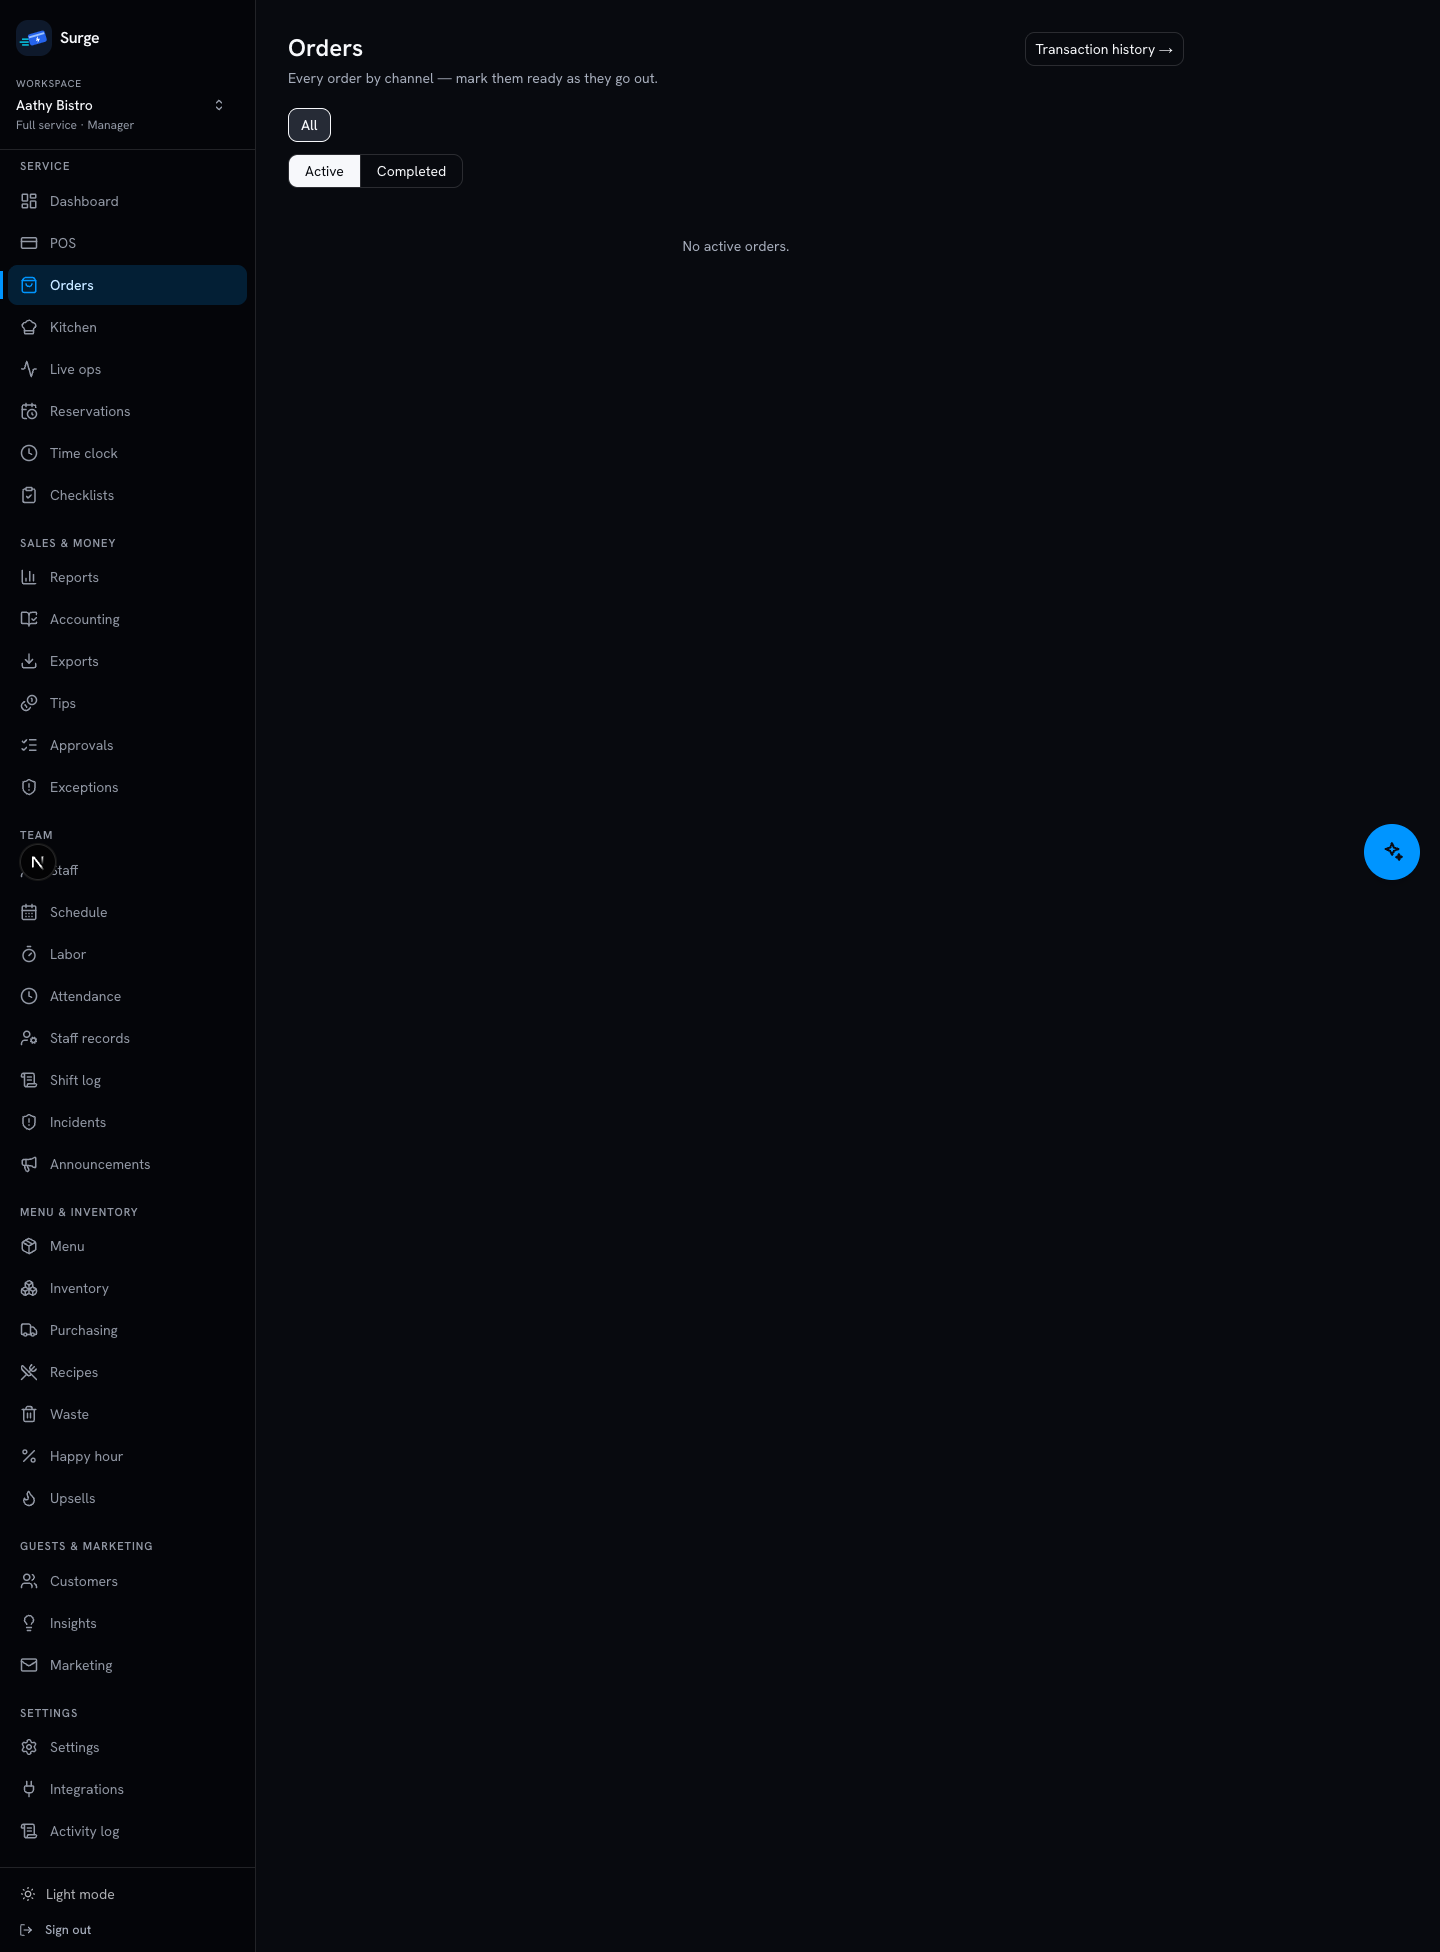
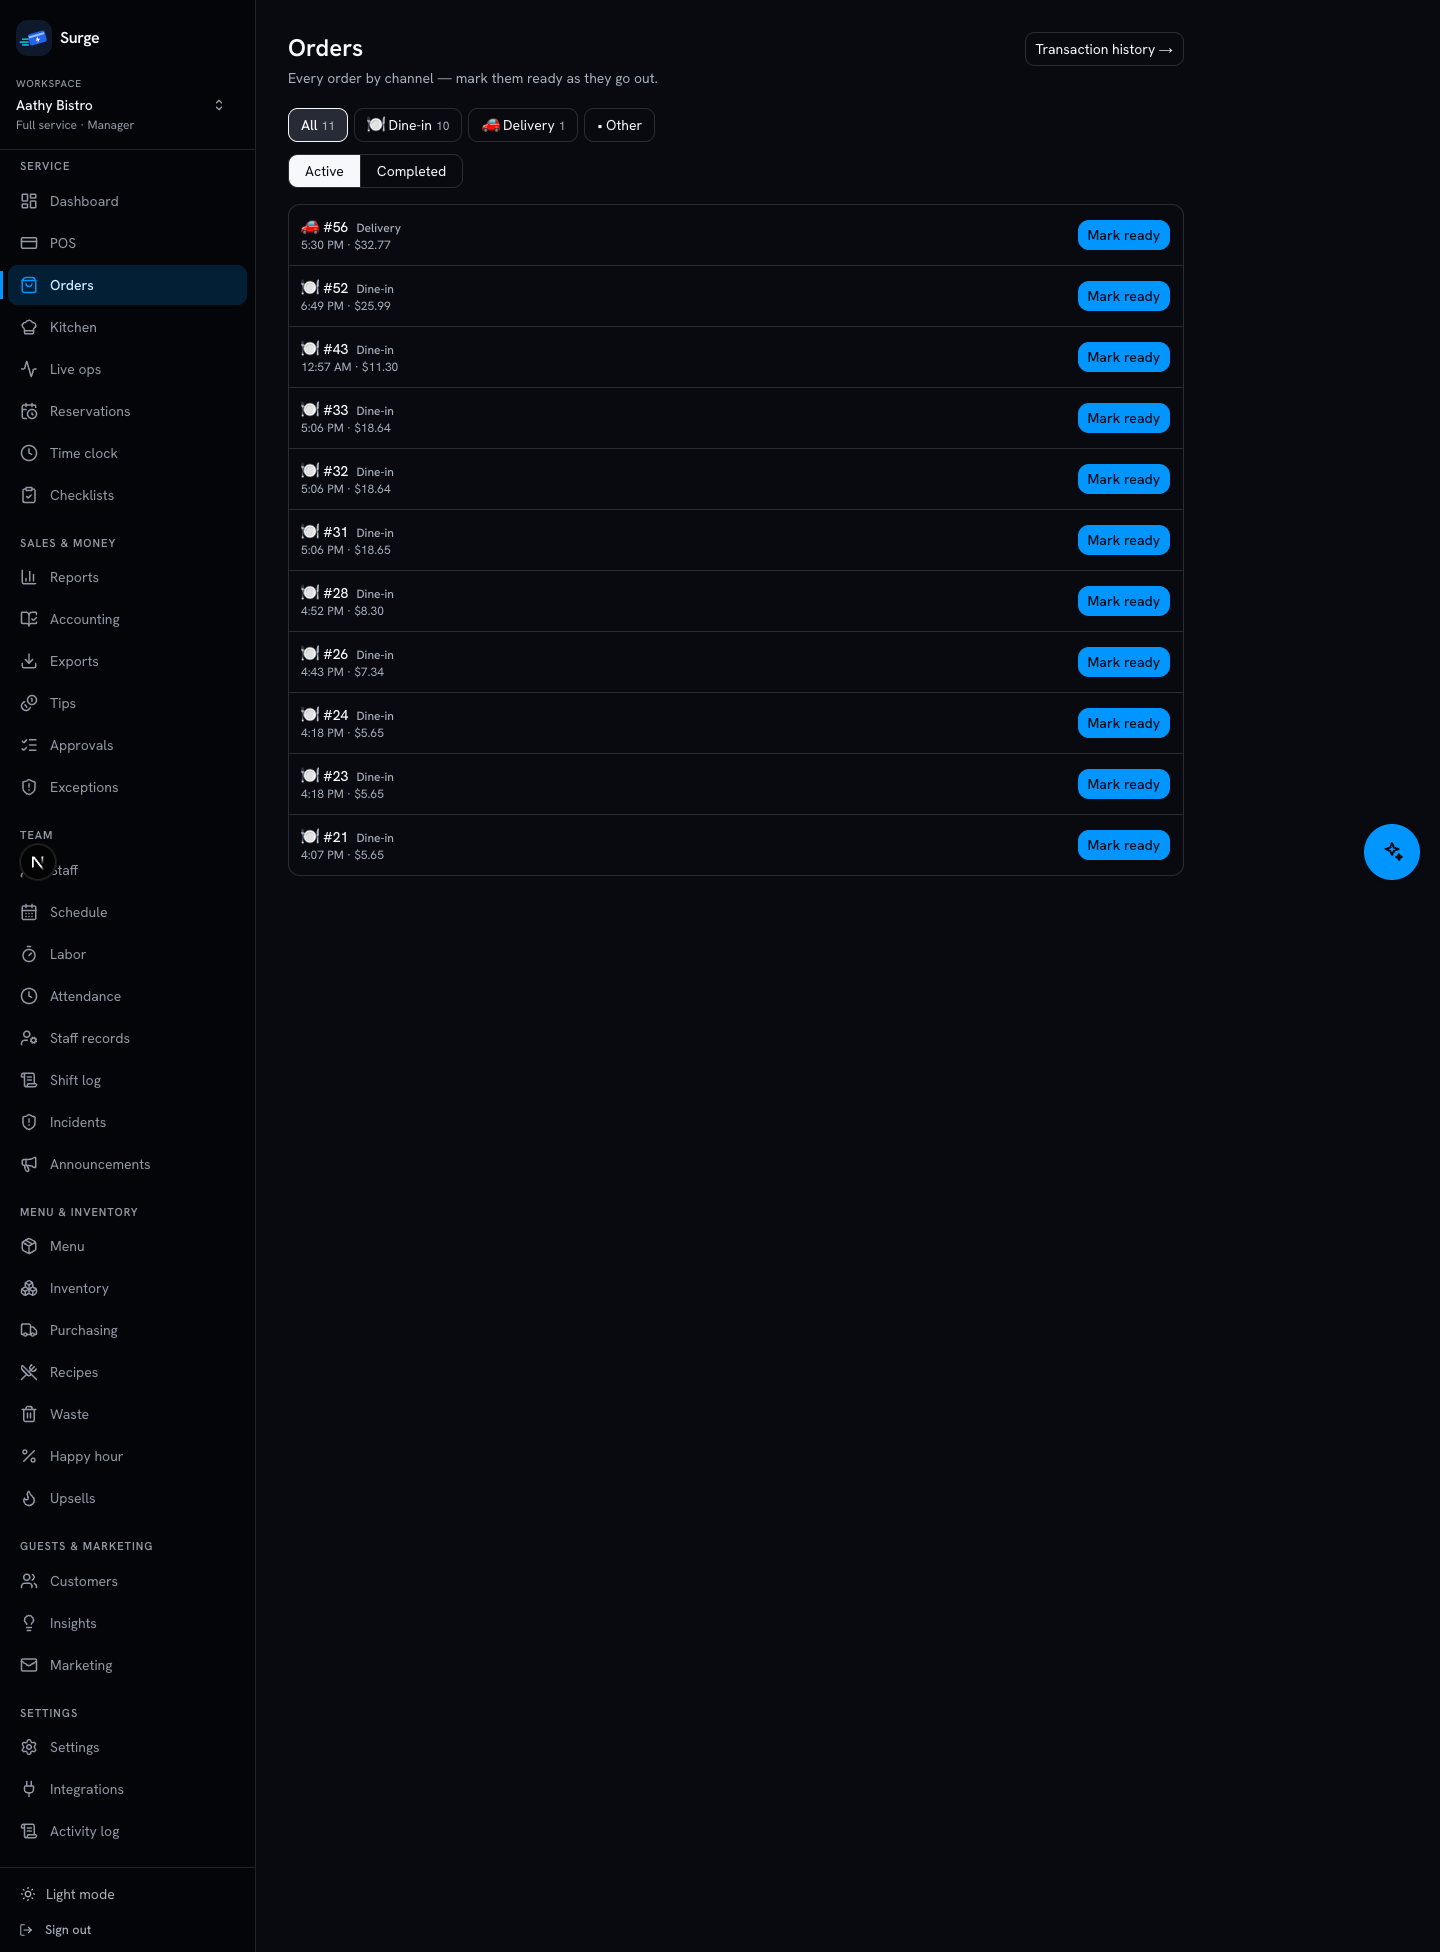
fix(orders): the Orders hub was silently rendering zero orders
app/app/orders/page.tsx selected `dining_option` as a column. There is no such
column — it lives inside orders.snapshot, which lib/services/order-fulfill.ts
already documents. PostgREST rejected the entire select, `const { data }`
discarded the error, and the hub rendered an empty list while the table held
hundreds of orders. It now reads the snapshot and logs the error instead of
swallowing it. Aathy Bistro goes from 0 to All 11 · Dine-in 10 · Delivery 1.

Reports gains the channel mix that finding exposed: a "Sales by channel" table
with orders, net sales, average ticket and share of net, plus a Channel column
in the CSV. Net is subtotal - discount, the same basis as the summary tiles, so
the rows reconcile.

Channel is derived, not read from one field: orders.channel is only set for
third-party/online, in-house orders carry dining_option in the snapshot, and
anything with neither is a counter sale ("In-store"). A filter on orders.channel
alone — as proposed — would have bucketed 81 of 82 rows as unknown.

114 tests, clean typecheck, clean production build.

Changed region(s): [[0.1875, 0.0625, 0.2812, 0.4375], [0.75, 0.0938, 0.8125, 0.4688]]

diff --git a/app/app/reports/page.tsx b/app/app/reports/page.tsx
@@ -18,7 +18,35 @@ type OrderRow = {
   payment_method: string;
   status: string;
   staff_id: string | null;
+  channel: ChannelKey;
 };
+
+// Fulfillment channel. Two fields feed it and neither alone is enough:
+// `orders.channel` is populated only for third-party / online orders, while an
+// order rung in-house carries dining_option inside the SNAPSHOT (there is no
+// dining_option column — see lib/services/order-fulfill.ts). Anything with
+// neither is a counter sale, which is what "In-store" means here.
+const CHANNELS = ["dine_in", "takeout", "pickup", "delivery", "in_store"] as const;
+type ChannelKey = (typeof CHANNELS)[number];
+
+const CHANNEL_LABEL: Record<ChannelKey, string> = {
+  dine_in: "Dine-in",
+  takeout: "Takeout",
+  pickup: "Pickup",
+  delivery: "Delivery",
+  in_store: "In-store",
+};
+
+function channelOf(o: Record<string, unknown>): ChannelKey {
+  const snap = (o.snapshot ?? null) as { dining_option?: string | null } | null;
+  const d = (snap?.dining_option ?? "").toLowerCase();
+  if (d === "dine_in" || d === "takeout" || d === "pickup" || d === "delivery") return d;
+  const c = ((o.channel as string | null) ?? "").toLowerCase();
+  if (c.includes("delivery")) return "delivery";
+  if (c.includes("pickup")) return "pickup";
+  if (c.includes("takeout") || c.includes("togo")) return "takeout";
+  return "in_store";
+}
 
 function round2(n: number): number {
   return Math.round((Number(n) || 0) * 100) / 100;
@@ -82,7 +110,7 @@ export default async function ReportsPage({
   ).toISOString();
   const { data: ordersData } = await supabase
     .from("orders")
-    .select("id, sale_number, created_at, subtotal, discount, tax, tip, total, payment_method, status, staff_id")
+    .select("id, sale_number, created_at, subtotal, discount, tax, tip, total, payment_method, status, staff_id, channel, snapshot")
     .eq("business_id", business.id)
     .neq("is_training", true)
     .gte("created_at", cutoffIso)
@@ -101,6 +129,10 @@ export default async function ReportsPage({
     payment_method: (o.payment_method as string | null) ?? "cash",
     status: (o.status as string | null) ?? "paid",
     staff_id: (o.staff_id as string | null) ?? null,
+    // Fulfillment channel. `orders.channel` is only set for third-party/online
+    // orders; everything rung in-house carries dining_option in the SNAPSHOT
+    // (there is no dining_option column — see order-fulfill.ts).
+    channel: channelOf(o),
   }));
 
   const now = Date.now();
@@ -357,11 +389,12 @@ export default async function ReportsPage({
 
   // Transaction-level CSV: one row per sale, for a bookkeeper/accountant hand-off.
   const exportRows: (string | number)[][] = [
-    ["Date/time", "Sale #", "Server", "Subtotal", "Discount", "Tax", "Tip", "Total", "Payment", "Status"],
+    ["Date/time", "Sale #", "Server", "Channel", "Subtotal", "Discount", "Tax", "Tip", "Total", "Payment", "Status"],
     ...orders.map((o) => [
       new Date(o.created_at).toLocaleString("en-CA", { timeZone: tz }),
       o.sale_number ?? "",
       o.staff_id ? exportNameById[o.staff_id] ?? "" : "",
+      CHANNEL_LABEL[o.channel],
       o.subtotal.toFixed(2),
       o.discount.toFixed(2),
       o.tax.toFixed(2),
@@ -400,6 +433,29 @@ export default async function ReportsPage({
     if (code === "none") return "—";
     return action === "comp" ? reasonLabel(COMP_REASONS, code) : reasonLabelForAction(action, code);
   };
+
+  // Channel mix for the selected range. Net = subtotal - discount (pre-tax), the
+  // same basis the summary tiles use, so the rows reconcile with the totals.
+  const channelRows = (() => {
+    const by = new Map<ChannelKey, { count: number; net: number }>();
+    for (const o of orders) {
+      const cur = by.get(o.channel) ?? { count: 0, net: 0 };
+      cur.count += 1;
+      cur.net += o.subtotal - o.discount;
+      by.set(o.channel, cur);
+    }
+    const total = Array.from(by.values()).reduce((a, v) => a + v.net, 0);
+    return CHANNELS.filter((k) => by.has(k)).map((k) => {
+      const v = by.get(k)!;
+      return {
+        key: k,
+        count: v.count,
+        net: round2(v.net),
+        avg: round2(v.count > 0 ? v.net / v.count : 0),
+        share: total > 0 ? Math.round((v.net / total) * 100) : 0,
+      };
+    }).sort((a, b) => b.net - a.net);
+  })();
 
   const tabs: { key: string; label: string }[] = [
     { key: "today", label: "Today" },
@@ -553,6 +609,38 @@ export default async function ReportsPage({
             <div className="tabular-nums">{money(other)}</div>
           </div>
         </div>
+      </div>
+
+      {/* Sales by channel — the revenue-centre split an operator uses to weigh
+          packaging and aggregator cost against dining-room covers. Only
+          channels that actually occurred are listed, so a dine-in-only
+          restaurant doesn't read four empty rows. */}
+      <div className="mb-4">
+        <h2 className="text-sm font-medium text-muted-foreground mb-2">Sales by channel</h2>
+        {channelRows.length === 0 ? (
+          <div className="bg-card border border-border rounded-lg p-6">
+            <p className="text-sm text-muted-foreground">No sales in this period.</p>
+          </div>
+        ) : (
+          <div className="bg-card border border-border rounded-lg overflow-hidden">
+            <div className="grid grid-cols-[1fr_auto_auto_auto_auto] gap-4 px-4 py-2.5 bg-raised border-b border-border text-[11px] font-semibold uppercase tracking-wider text-muted-foreground">
+              <div>Channel</div>
+              <div className="text-right">Orders</div>
+              <div className="text-right">Net sales</div>
+              <div className="text-right">Avg ticket</div>
+              <div className="text-right">Share</div>
+            </div>
+            {channelRows.map((r) => (
+              <div key={r.key} className="grid grid-cols-[1fr_auto_auto_auto_auto] gap-4 px-4 py-3 border-b border-border last:border-0 text-sm">
+                <div className="font-medium">{CHANNEL_LABEL[r.key]}</div>
+                <div className="text-right tabular-nums text-muted-foreground">{r.count}</div>
+                <div className="text-right tabular-nums">{money(r.net)}</div>
+                <div className="text-right tabular-nums text-muted-foreground">{money(r.avg)}</div>
+                <div className="text-right tabular-nums text-muted-foreground">{r.share}%</div>
+              </div>
+            ))}
+          </div>
+        )}
       </div>
 
       <div className="grid grid-cols-1 lg:grid-cols-2 gap-4">

diff --git a/app/app/orders/page.tsx b/app/app/orders/page.tsx
@@ -13,15 +13,21 @@ export default async function OrdersHubPage() {
   const { business } = await requireBusiness();
   const supabase = await createClient();
 
-  const { data } = await supabase
+  // BUG: this selected `dining_option` as a column. There is no such column —
+  // it lives inside the order snapshot (see the same note in
+  // lib/services/order-fulfill.ts). PostgREST rejected the whole select, the
+  // error was discarded by `const { data }`, and this page silently rendered
+  // ZERO orders while the table held hundreds.
+  const { data, error } = await supabase
     .from("orders")
-    .select("id, sale_number, total, created_at, channel, dining_option, fulfilled_at, customer_id, status")
+    .select("id, sale_number, total, created_at, channel, snapshot, fulfilled_at, customer_id, status")
     .eq("business_id", business.id)
     .neq("is_training", true)
     .neq("status", "voided")
     .order("created_at", { ascending: false })
     .limit(200);
 
+  if (error) console.error("OrdersHubPage orders query:", error);
   const rows = (data ?? []) as Record<string, unknown>[];
   const custIds = Array.from(new Set(rows.map((o) => o.customer_id as string | null).filter((x): x is string => !!x)));
   const nameById: Record<string, string> = {};
@@ -36,7 +42,8 @@ export default async function OrdersHubPage() {
     total: Number(o.total) || 0,
     createdAt: o.created_at as string,
     channel: (o.channel as string | null) ?? null,
-    diningOption: (o.dining_option as string | null) ?? null,
+    diningOption:
+      ((o.snapshot ?? null) as { dining_option?: string | null } | null)?.dining_option ?? null,
     fulfilledAt: (o.fulfilled_at as string | null) ?? null,
     status: (o.status as string | null) ?? "paid",
     customerName: o.customer_id ? nameById[o.customer_id as string] ?? null : null,
